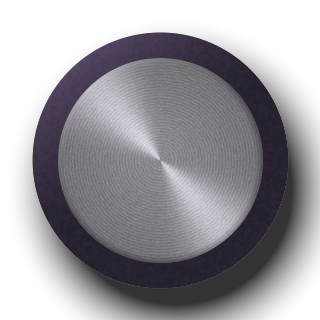
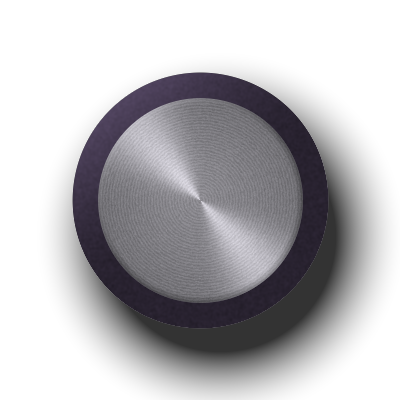
v1.0.1: copper name plate, uncut knob shadows, tidy lower row and OUTPUT section
Claude-Session: https://claude.ai/code/session_013jKKu2jZ6gVHt6eEoTXE3F

diff --git a/plugins/daubiko/src/editor.rs b/plugins/daubiko/src/editor.rs
@@ -44,6 +44,7 @@ struct Tex {
     amb_on: TextureHandle,
     amb_off: TextureHandle,
     screw: TextureHandle,
+    plate: TextureHandle,
 }
 
 struct Gui {
@@ -74,6 +75,7 @@ fn load(ctx: &egui::Context) -> Tex {
         amb_on: l("db_amb_on", pics::png(pics::LAMP_AMBER_ON)),
         amb_off: l("db_amb_off", pics::png(pics::LAMP_AMBER_OFF)),
         screw: l("db_screw", pics::png(pics::SCREW)),
+        plate: l("db_plate", pics::png(pics::PLATE)),
     }
 }
 
@@ -141,9 +143,9 @@ pub fn create(params: Arc<DauBikoParams>, meters: Arc<Meters>) -> Option<Box<dyn
                 }
 
                 // ------------------------------------------------ header: brass name plate
-                nameplate(ui, rect(40.0, 12.0, 190.0, 40.0));
-                print(&painter, at(250.0, 25.0), Align2::LEFT_CENTER, "ANALOG  MASTERING  PROCESSOR", 11.0, PRINT_DIM);
-                print(&painter, at(250.0, 42.0), Align2::LEFT_CENTER, "MODEL DB-1    TONE · DYNAMICS · COLOR · LIMIT", 8.5, Color32::from_rgb(0x84, 0x7a, 0x6e));
+                nameplate(ui, tex, rect(56.0, 11.0, 200.0, 42.0));
+                print(&painter, at(276.0, 25.0), Align2::LEFT_CENTER, "ANALOG  MASTERING  PROCESSOR", 11.0, PRINT_DIM);
+                print(&painter, at(276.0, 42.0), Align2::LEFT_CENTER, "MODEL DB-1    TONE · DYNAMICS · COLOR · LIMIT", 8.5, Color32::from_rgb(0x84, 0x7a, 0x6e));
                 groove_h(&painter, o.x + 36.0, o.x + BASE_W - 36.0, o.y + 62.0);
 
                 // power: jewel + toggle
@@ -197,12 +199,12 @@ pub fn create(params: Arc<DauBikoParams>, meters: Arc<Meters>) -> Option<Box<dyn
                 print(&painter, at(942.0, 337.0), Align2::RIGHT_CENTER, "+12", 8.0, PRINT_DIM);
 
                 // ------------------------------------------------ lower row
-                let ky = 440.0;
+                let ky = 442.0;
                 let kr = 23.0;
-                section(&painter, rect(36.0, 364.0, 90.0, 180.0), "INPUT");
+                section(&painter, rect(36.0, 360.0, 90.0, 178.0), "INPUT");
                 knob(ui, setter, tex, &p.input, "LEVEL", at(81.0, ky), kr, true, "Input level into the processor.");
 
-                section(&painter, rect(134.0, 364.0, 404.0, 180.0), "TONE");
+                section(&painter, rect(134.0, 360.0, 404.0, 178.0), "TONE");
                 let tone: [(&FloatParam, &str, bool, &str); 6] = [
                     (&p.lowcut, "LOW CUT", false, "Removes sub rumble below the set frequency (12 dB/oct). OFF at the left stop."),
                     (&p.low, "LOW", true, "Low shelf at 80 Hz: weight and warmth of the bass."),
@@ -215,34 +217,34 @@ pub fn create(params: Arc<DauBikoParams>, meters: Arc<Meters>) -> Option<Box<dyn
                     knob(ui, setter, tex, prm, name, at(170.0 + 66.4 * i as f32, ky), kr, bip, tip);
                 }
 
-                section(&painter, rect(546.0, 364.0, 128.0, 180.0), "STEREO");
+                section(&painter, rect(546.0, 360.0, 128.0, 178.0), "STEREO");
                 knob(ui, setter, tex, &p.width, "WIDTH", at(586.0, ky), kr, true, "Stereo width: 0 % mono, 100 % unchanged, 200 % twice as wide.");
                 let bm = p.bass_mono.value();
-                if toggle(ui, tex, at(644.0, ky - 6.0), bm, "MONO", "BASS", "BASS MONO: makes everything below 120 Hz mono for a tight, centred low end.") {
+                if toggle(ui, tex, at(644.0, ky), bm, "MONO", "BASS", "BASS MONO: makes everything below 120 Hz mono for a tight, centred low end.") {
                     set_b(setter, &p.bass_mono, !bm);
                 }
                 lamp(&painter, if bm && on { &tex.amb_on } else { &tex.amb_off }, at(644.0, ky + 50.0), 4.5);
 
-                section(&painter, rect(682.0, 364.0, 128.0, 180.0), "COLOR");
+                section(&painter, rect(682.0, 360.0, 128.0, 178.0), "COLOR");
                 knob(ui, setter, tex, &p.drive, "DRIVE", at(722.0, ky), kr, false, "Analog saturation (2x oversampled). Adds harmonics and density.");
                 let tube = p.character.value() == CharacterParam::Tube;
-                if toggle(ui, tex, at(780.0, ky - 6.0), tube, "TUBE", "TAPE", "TAPE: smooth odd harmonics, round peaks.\nTUBE: warm even harmonics.") {
+                if toggle(ui, tex, at(780.0, ky), tube, "TUBE", "TAPE", "TAPE: smooth odd harmonics, round peaks.\nTUBE: warm even harmonics.") {
                     set_e(setter, &p.character, if tube { CharacterParam::Tape } else { CharacterParam::Tube });
                 }
 
-                section(&painter, rect(818.0, 364.0, 146.0, 180.0), "OUTPUT");
+                section(&painter, rect(818.0, 360.0, 146.0, 178.0), "OUTPUT");
                 knob(ui, setter, tex, &p.gain, "GAIN", at(852.0, ky), kr, false, "Gain into the limiter: makes the master louder.");
                 knob(ui, setter, tex, &p.ceiling, "CEILING", at(926.0, ky), kr, false, "Highest output peak the limiter allows.");
                 let lim = p.limiter.value();
-                if push_button(ui, tex, at(842.0, 521.0), lim && on, "LIMIT", "Lookahead peak limiter on / off (1.5 ms lookahead).") {
+                if push_button(ui, tex, at(852.0, 520.0), lim && on, "LIMIT", "Lookahead peak limiter on / off (1.5 ms lookahead).") {
                     set_b(setter, &p.limiter, !lim);
                 }
                 let lim_now = Meters::get(&meters.lim_db);
                 st.lim_show = if lim_now < st.lim_show { lim_now } else { st.lim_show + (lim_now - st.lim_show) * 0.12 };
-                led_bar_gr(&painter, rect(884.0, 512.0, 70.0, 7.0), if on && lim { -st.lim_show } else { 0.0 });
+                led_bar_gr(&painter, rect(896.0, 514.0, 60.0, 6.0), if on && lim { -st.lim_show } else { 0.0 });
                 let out_db = Meters::get(&meters.out_db);
                 st.out_hold = if out_db > st.out_hold { out_db } else { st.out_hold - 0.4 };
-                painter.text(at(919.0, 530.0), Align2::CENTER_CENTER, if st.out_hold > -60.0 { format!("PK {:+.1}", st.out_hold) } else { "PK  --".into() }, FontId::monospace(8.5), if st.out_hold > -0.05 { RED } else { PRINT_DIM });
+                painter.text(at(926.0, 530.0), Align2::CENTER_CENTER, if st.out_hold > -60.0 { format!("PK {:+.1}", st.out_hold) } else { "PK  --".into() }, FontId::monospace(8.5), if st.out_hold > -0.05 { RED } else { PRINT_DIM });
 
                 resize_grip(ui, ctx, &size_state, full);
             });
@@ -297,44 +299,19 @@ fn section(p: &Painter, r: Rect, title: &str) {
     print(p, Pos2::new(r.left() + 10.0, r.top() + 12.0), Align2::LEFT_CENTER, title, 9.5, PRINT_DIM);
 }
 
-/// Brushed brass name plate with the engraved logo and two small screws.
-fn nameplate(ui: &Ui, r: Rect) {
+/// Copper name plate (pre-rendered) with the engraved logo.
+fn nameplate(ui: &Ui, tex: &Tex, r: Rect) {
     let p = ui.painter();
-    p.rect_filled(r.translate(Vec2::new(1.5, 2.5)), CornerRadius::same(3), Color32::from_black_alpha(150));
-    let mut m = Mesh::default();
-    let (tl, tr, br, bl) = (Color32::from_rgb(0xc9, 0xa7, 0x5c), Color32::from_rgb(0xa8, 0x86, 0x42), Color32::from_rgb(0x7c, 0x60, 0x2c), Color32::from_rgb(0x96, 0x77, 0x3a));
-    m.colored_vertex(r.left_top(), tl);
-    m.colored_vertex(r.right_top(), tr);
-    m.colored_vertex(r.right_bottom(), br);
-    m.colored_vertex(r.left_bottom(), bl);
-    m.add_triangle(0, 1, 2);
-    m.add_triangle(0, 2, 3);
-    p.add(Shape::mesh(m));
-    // brushing
-    let mut y = r.top() + 1.0;
-    let mut k = 0u32;
-    while y < r.bottom() - 1.0 {
-        k = k.wrapping_mul(1664525).wrapping_add(1013904223);
-        let a = ((k >> 24) % 26) as u8;
-        p.hline(r.left() + 1.0..=r.right() - 1.0, y, Stroke::new(0.6_f32, if k & 1 == 0 { Color32::from_white_alpha(a) } else { Color32::from_black_alpha(a) }));
-        y += 1.1;
-    }
-    p.rect_stroke(r, CornerRadius::same(3), Stroke::new(1.0_f32, Color32::from_rgb(0x5a, 0x44, 0x1c)), StrokeKind::Inside);
-    p.hline(r.left() + 2.0..=r.right() - 2.0, r.top() + 1.5, Stroke::new(1.0_f32, Color32::from_rgba_unmultiplied(255, 240, 200, 70)));
-    for x in [r.left() + 8.0, r.right() - 8.0] {
-        let c = Pos2::new(x, r.center().y);
-        p.circle_filled(c, 3.2, Color32::from_rgb(0x6e, 0x58, 0x2c));
-        p.circle_filled(c + Vec2::new(-0.6, -0.6), 2.4, Color32::from_rgb(0xb8, 0x98, 0x52));
-        p.line_segment([c + Vec2::new(-2.0, 0.8), c + Vec2::new(2.0, -0.8)], Stroke::new(0.9_f32, Color32::from_rgb(0x4a, 0x38, 0x18)));
-    }
-    // engraved logo: dark cut with a bright lower edge
+    // the texture has a 5 px margin (at layout scale) around the plate for its shadow
+    p.image(tex.plate.id(), r.expand(5.0), UV, Color32::WHITE);
     let mut job = LayoutJob::default();
     job.append("DauBiko", 0.0, TextFormat { font_id: FontId::proportional(26.0), color: Color32::WHITE, extra_letter_spacing: 3.0, ..Default::default() });
     let g = ui.fonts(|f| f.layout_job(job));
     let pos = Pos2::new(r.center().x - g.size().x / 2.0, r.center().y - g.size().y / 2.0);
-    p.galley_with_override_text_color(pos + Vec2::new(0.0, 1.2), g.clone(), Color32::from_rgba_unmultiplied(255, 238, 196, 150));
-    p.galley_with_override_text_color(pos + Vec2::new(0.0, -0.6), g.clone(), Color32::from_rgba_unmultiplied(40, 26, 6, 160));
-    p.galley_with_override_text_color(pos, g, Color32::from_rgb(0x24, 0x18, 0x08));
+    // engraved: bright lower lip, dark upper wall, deep cut
+    p.galley_with_override_text_color(pos + Vec2::new(0.0, 1.2), g.clone(), Color32::from_rgba_unmultiplied(255, 214, 170, 130));
+    p.galley_with_override_text_color(pos + Vec2::new(0.0, -0.7), g.clone(), Color32::from_rgba_unmultiplied(30, 12, 4, 150));
+    p.galley_with_override_text_color(pos, g, Color32::from_rgb(0x3a, 0x1c, 0x0c));
 }
 
 fn lamp(p: &Painter, t: &TextureHandle, c: Pos2, dome_r: f32) {
@@ -381,7 +358,7 @@ fn knob<P: Param>(ui: &mut Ui, setter: &ParamSetter, tex: &Tex, p: &P, label: &s
     knob_input(ui, setter, p, hit, tip);
     let painter = ui.painter().clone();
     let t = p.unmodulated_normalized_value();
-    print(&painter, c - Vec2::new(0.0, r + 18.0), Align2::CENTER_CENTER, label, 9.0, PRINT);
+    print(&painter, c - Vec2::new(0.0, r + 28.0), Align2::CENTER_CENTER, label, 9.0, PRINT);
     for i in 0..=10 {
         let tt = i as f32 / 10.0;
         let major = i % 5 == 0;
@@ -393,7 +370,8 @@ fn knob<P: Param>(ui: &mut Ui, setter: &ParamSetter, tex: &Tex, p: &P, label: &s
         painter.circle_filled(polar(c, r + 14.5, ang(0.5)), 1.5, PRINT);
     }
     // sprite: knob radius is 0.36 of the sprite size
-    let size = Vec2::splat(2.0 * r / 0.72);
+    // sprite: knob radius is 0.30 of the sprite size (room for the soft shadow)
+    let size = Vec2::splat(2.0 * r / 0.60);
     sprite(&painter, &tex.knob, c, size);
     sprite_rot(&painter, &tex.knob_rot, c, size, (t - 0.5) * SWEEP, Color32::WHITE);
     value_plate(ui, setter, p, label, Rect::from_center_size(c + Vec2::new(0.0, r + 25.0), Vec2::new(60.0, 16.0)));
@@ -424,7 +402,7 @@ fn big_knob(ui: &mut Ui, setter: &ParamSetter, tex: &Tex, p: &FloatParam, c: Pos
             painter.circle_filled(pos + Vec2::new(-0.8, -0.9), 0.8, Color32::from_white_alpha(50));
         }
     }
-    let size = Vec2::splat(2.0 * r / 0.80);
+    let size = Vec2::splat(2.0 * r / 0.64);
     sprite(&painter, &tex.big, c, size);
     sprite_rot(&painter, &tex.big_rot, c, size, (t - 0.5) * SWEEP, Color32::WHITE);
 }
@@ -435,9 +413,9 @@ fn toggle(ui: &mut Ui, tex: &Tex, c: Pos2, on: bool, top: &str, bottom: &str, ti
     let resp = ui.allocate_rect(hit, Sense::click());
     let resp = if tip.is_empty() { resp } else { resp.on_hover_text(tip) };
     let p = ui.painter();
-    print(p, c - Vec2::new(0.0, 35.0), Align2::CENTER_CENTER, top, 8.0, if on { PRINT } else { PRINT_DIM });
+    print(p, c - Vec2::new(0.0, 51.0), Align2::CENTER_CENTER, top, 8.0, if on { PRINT } else { PRINT_DIM });
     if !bottom.is_empty() {
-        print(p, c + Vec2::new(0.0, 33.0), Align2::CENTER_CENTER, bottom, 8.0, if on { PRINT_DIM } else { PRINT });
+        print(p, c + Vec2::new(0.0, 35.0), Align2::CENTER_CENTER, bottom, 8.0, if on { PRINT_DIM } else { PRINT });
     }
     sprite(p, if on { &tex.tog_up } else { &tex.tog_dn }, c, Vec2::new(44.0, 60.5));
     resp.clicked()
@@ -445,7 +423,7 @@ fn toggle(ui: &mut Ui, tex: &Tex, c: Pos2, on: bool, top: &str, bottom: &str, ti
 
 /// Square rubber push button with a lit window.
 fn push_button(ui: &mut Ui, _tex: &Tex, c: Pos2, on: bool, label: &str, tip: &str) -> bool {
-    let r = Rect::from_center_size(c, Vec2::new(44.0, 20.0));
+    let r = Rect::from_center_size(c, Vec2::new(50.0, 20.0));
     let resp = ui.allocate_rect(r, Sense::click()).on_hover_text(tip);
     let p = ui.painter();
     let pressed = resp.is_pointer_button_down_on();
@@ -767,7 +745,7 @@ fn led_bar_gr(p: &Painter, r: Rect, gr: f32) {
         let lit = gr >= i as f32 + 0.3;
         p.rect_filled(sr, CornerRadius::same(1), if lit { RED } else { Color32::from_rgb(0x2c, 0x12, 0x10) });
     }
-    print(p, Pos2::new(r.left(), r.top() - 8.0), Align2::LEFT_CENTER, "GR", 7.5, PRINT_DIM);
+    print(p, Pos2::new(r.center().x, r.top() - 9.0), Align2::CENTER_CENTER, "LIMIT  GR", 7.5, PRINT_DIM);
 }
 
 /// Bottom-right grip that resizes the window keeping its proportions.

diff --git a/tools/render_textures.py b/tools/render_textures.py
@@ -86,7 +86,7 @@ def faceplate():
     d = np.minimum.reduce([xx, W - 1 - xx, yy, H - 1 - yy]) / S
     wear_n = norm(noise(H, W, 3) + 0.5 * noise(H, W, 12))
     edge = np.clip((7 - d) / 7, 0, 1) ** 2
-    worn = np.clip((wear_n * 0.6 + edge * 1.1 - 0.85) * 3.0, 0, 1) * 0.8
+    worn = np.clip((wear_n * 0.6 + edge * 1.1 - 0.85) * 3.0, 0, 1) * 0.35
     bare = np.array([0.46, 0.44, 0.45], np.float32) * (1.0 + 0.10 * brushed)[..., None]
     rgb = rgb * (1 - worn[..., None]) + bare * worn[..., None]
 
@@ -173,7 +173,7 @@ def spun_metal(n, cx, cy, r, light_ang=-2.3, base=0.62):
     return shade, rr
 
 
-def knob_small(n=192, r_frac=0.36):
+def knob_small(n=240, r_frac=0.30):
     """Static layer (shadow, bakelite skirt shading, spun aluminium cap) and rotating layer (ribs + pointer)."""
     c = n / 2
     r = n * r_frac
@@ -227,9 +227,9 @@ def knob_small(n=192, r_frac=0.36):
     save_rgba(rgbr, al, "knob_rot.png", down=1)
 
 
-def knob_big(n=320):
+def knob_big(n=400):
     c = n / 2
-    r = n * 0.40
+    r = n * 0.32
     yy, xx = np.mgrid[0:n, 0:n].astype(np.float32)
     dx, dy = xx - c, yy - c
     rr = np.sqrt(dx * dx + dy * dy)
@@ -399,7 +399,58 @@ def vu_face():
     save_rgb(np.clip(rgb, 0, 1), "vu_face.jpg", q=90)
 
 
+def copper_plate():
+    """Polished copper name plate: soft bevel, warm sheen, light oxidation, two copper screws."""
+    W, H = 200 * S, 42 * S
+    pad = 10
+    w, h = W + 2 * pad, H + 2 * pad
+    yy, xx = np.mgrid[0:h, 0:w].astype(np.float32)
+    x0, y0, x1, y1 = pad, pad, pad + W, pad + H
+    rad = 5 * S
+    # rounded-rect signed distance (positive inside)
+    qx = np.maximum(np.maximum(x0 + rad - xx, xx - (x1 - rad)), 0)
+    qy = np.maximum(np.maximum(y0 + rad - yy, yy - (y1 - rad)), 0)
+    inside_d = np.minimum.reduce([xx - x0, x1 - xx, yy - y0, y1 - yy])
+    d = np.where((qx > 0) & (qy > 0), rad - np.sqrt(qx ** 2 + qy ** 2), np.where((qx > 0) | (qy > 0), rad - np.maximum(qx, qy), inside_d))
+    body = np.clip(d + 0.5, 0, 1)
+    # drop shadow
+    sd = np.roll(np.roll(d, 3 * S, axis=0), 2 * S, axis=1)
+    shadow = np.clip((sd + 6) / 8, 0, 1) * 0.55
+    u = (xx - x0) / W
+    v = (yy - y0) / H
+    base = np.array([0.74, 0.42, 0.25], np.float32)
+    lum = 0.78 + 0.22 * (1 - v) + 0.10 * np.exp(-((u - 0.30) ** 2) / 0.02) * (1 - v) + 0.04 * noise(h, w, 30)
+    rgb = base * lum[..., None]
+    # light oxidation: darker brown blotches + a hint of verdigris near the bottom edge
+    ox = np.clip(norm(noise(h, w, 9) + 0.6 * noise(h, w, 3)) * 1.8 - 1.05, 0, 1)
+    rgb = rgb * (1 - 0.30 * ox[..., None]) + np.array([0.35, 0.18, 0.10]) * 0.30 * ox[..., None]
+    ver = np.clip(norm(noise(h, w, 5)) * 2.2 - 1.6, 0, 1) * np.clip((v - 0.75) * 4, 0, 1)
+    rgb = rgb * (1 - 0.35 * ver[..., None]) + np.array([0.30, 0.55, 0.45]) * 0.35 * ver[..., None]
+    # bevel
+    bev = np.clip(1 - d / (2.2 * S), 0, 1)
+    top = np.clip(1 - v * 2, 0, 1)
+    rgb = rgb + (bev * (0.35 * top - 0.25 * (1 - top)))[..., None] * np.array([1.0, 0.85, 0.7])
+    rgb += RNG.standard_normal((h, w, 1)).astype(np.float32) * 0.008
+    # copper screws
+    for sx in (x0 + 9 * S, x1 - 9 * S):
+        sy = (y0 + y1) / 2
+        dd = np.sqrt((xx - sx) ** 2 + (yy - sy) ** 2)
+        head = np.clip(3.4 * S - dd + 0.5, 0, 1)
+        nd = ((xx - sx) * -0.55 + (yy - sy) * -0.7) / (3.4 * S)
+        hv = (0.62 + 0.35 * np.clip(nd, -1, 1))[..., None] * np.array([0.85, 0.52, 0.32])
+        slot = np.clip(0.9 * S - np.abs((xx - sx) * 0.5 - (yy - sy) * 0.85), 0, 1) * (dd < 2.8 * S)
+        hv = hv * (1 - 0.7 * slot[..., None])
+        ring = np.clip(1 - np.abs(dd - 3.6 * S) / (0.8 * S), 0, 1) * 0.5
+        rgb = rgb * (1 - ring[..., None])
+        rgb = rgb * (1 - head[..., None]) + hv * head[..., None]
+    alpha = np.maximum(body, shadow)
+    rgb = rgb * body[..., None]
+    save_rgba(rgb, alpha, "copper_plate.png")
+    print("copper plate pad px", pad, "size", w, h)
+
+
 if __name__ == "__main__":
+    copper_plate()
     faceplate()
     wood()
     knob_small()

diff --git a/plugins/daubiko/src/pics.rs b/plugins/daubiko/src/pics.rs
@@ -17,6 +17,7 @@ pub const LAMP_RED_OFF: &[u8] = include_bytes!("../assets/ui/lamp_red_off.png");
 pub const LAMP_AMBER_ON: &[u8] = include_bytes!("../assets/ui/lamp_amber_on.png");
 pub const LAMP_AMBER_OFF: &[u8] = include_bytes!("../assets/ui/lamp_amber_off.png");
 pub const SCREW: &[u8] = include_bytes!("../assets/ui/screw.png");
+pub const PLATE: &[u8] = include_bytes!("../assets/ui/copper_plate.png");
 
 fn placeholder() -> ColorImage {
     ColorImage::new([4, 4], Color32::from_gray(60))

diff --git a/RELEASE_NOTES.md b/RELEASE_NOTES.md
@@ -1,3 +1,11 @@
+# DauBiko v1.0.1
+
+- Engraved copper name plate (no longer touches the corner screw)
+- Knob shadows are no longer cut off (DYNAMICS and the small knobs)
+- Knob labels sit clear of the centre marks; MONO / TUBE switches line up with the knob labels
+- OUTPUT: LIMIT button, limiter GR meter and peak read-out in one tidy row
+- Calmer panel edges
+
 # DauBiko v1.0.0
 
 First release of DauBiko, an analog-style mastering processor.
